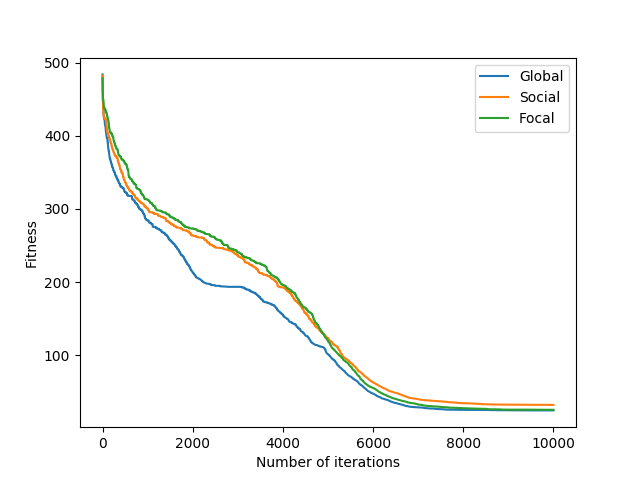
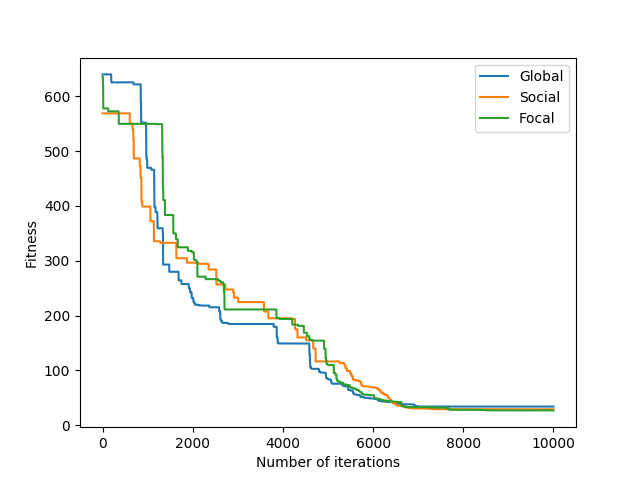
Change spawn method for uniform distribution of region scaling technique/Implement benchmark functions by using numpy operations instead of deap

diff --git a/benchmark/functions.py b/benchmark/functions.py
@@ -1,55 +1,49 @@
-from deap.benchmarks import sphere, rosenbrock, rastrigin
-from deap.benchmarks.tools import translate, rotate
+import numpy as np
 
 
 class ObjectiveFunction(object):
-    def __init__(self, name, dimensions, min, max):
+    def __init__(self, name, dimensions, bounds):
         self.name = name
-        self.min = min
-        self.max = max
+        self.min = bounds[0]
+        self.max = bounds[1]
         self.dimensions = dimensions
 
-    def evaluate(self, x):
-        pass
+    def random_region_scaling(self):
+        x = self.max / 2.0
+        return (np.random.random(self.dimensions) * x) + x
+
+    def __call__(self, x):
+        return 0
+
+    @np.vectorize
+    def evaluate(self, x, y):
+        return self(np.array([x, y]))
 
 
 class SphereFunction(ObjectiveFunction):
     def __init__(self, dim):
-        super(SphereFunction, self).__init__('Sphere', dim, -100.0, 100.0)
-
-    @staticmethod
-    def region_scaling():
-        mean = 50
-        std_dev = 5
-        return mean, std_dev
+        super(SphereFunction, self).__init__('Sphere', dim, (-100.0, 100.0))
 
     def __call__(self, x):
-        return sphere(x)[0]
+        return (x ** 2).sum()
 
 
 class RosenbrockFunction(ObjectiveFunction):
     def __init__(self, dim):
-        super(RosenbrockFunction, self).__init__('Rosenbrock', dim, -30.0, 30.0)
-
-    @staticmethod
-    def region_scaling():
-        mean = 20
-        std_dev = 2
-        return mean, std_dev
+        super(RosenbrockFunction, self).__init__('Rosenbrock', dim, (-30.0, 30.0))
 
     def __call__(self, x):
-        return rosenbrock(x)[0]
+        a = x[1:] - (x[:-1] ** 2)
+        b = x[:1] - 1
+        y = 100 * (a ** 2) + (b ** 2)
+
+        return y.sum()
 
 
 class RastriginFunction(ObjectiveFunction):
     def __init__(self, dim):
-        super(RastriginFunction, self).__init__('Rastrigin', dim, -5.12, 5.12)
-
-    @staticmethod
-    def region_scaling():
-        mean = -3
-        std_dev = 1
-        return mean, std_dev
+        super(RastriginFunction, self).__init__('Rastrigin', dim, (-5.12, 5.12))
 
     def __call__(self, x):
-        return rastrigin(x)[0]
+        y = (x ** 2) - 10 * np.cos(2.0 * np.pi * x) + 10
+        return y.sum()

diff --git a/pso/particle.py b/pso/particle.py
@@ -8,11 +8,10 @@ class Particle(object):
         self.__id = str(uuid.uuid4())
 
         fn_range = fn.max - fn.min
-        mean, std_dev = fn.region_scaling()
 
         self.__max_speed = max_speed * fn_range
         self.__speed = np.random.random(fn.dimensions) - 0.5
-        self.__position = np.random.normal(mean, std_dev, fn.dimensions)
+        self.__position = fn.random_region_scaling()
         self.__restrict_to_fn_boundaries()
 
         self.__fitness = fn(self.__position)

diff --git a/exercise_pso.py b/exercise_pso.py
@@ -7,8 +7,9 @@ from pso.strategies import Communication
 import os
 import numpy as np
 import matplotlib
-matplotlib.use('Agg')
 import matplotlib.pyplot as plt
+
+matplotlib.use('Agg')
 
 dimensions = 30
 n_particles = 30
@@ -31,7 +32,6 @@ inertia_strategies = [
 
 communication_strategies = [
     Communication.fully_connected(),
-    # Communication.nearest_connected(n_neighbors=2),
     Communication.socially_connected(),
     Communication.focal_connected()
 ]

diff --git a/pso/algorithm.py b/pso/algorithm.py
@@ -50,7 +50,7 @@ class PSO(object):
         num_samples = fn.max - fn.min
         domain = np.linspace(fn.min, fn.max, num_samples)
         x, y = np.meshgrid(domain.copy(), domain.copy())
-        z = fn(np.array([x, y]))
+        z = fn.evaluate(fn, x, y)
 
         p = np.array(list(map(position_mapper, swarm)))
         s = np.array(list(map(speed_mapper, swarm)))
